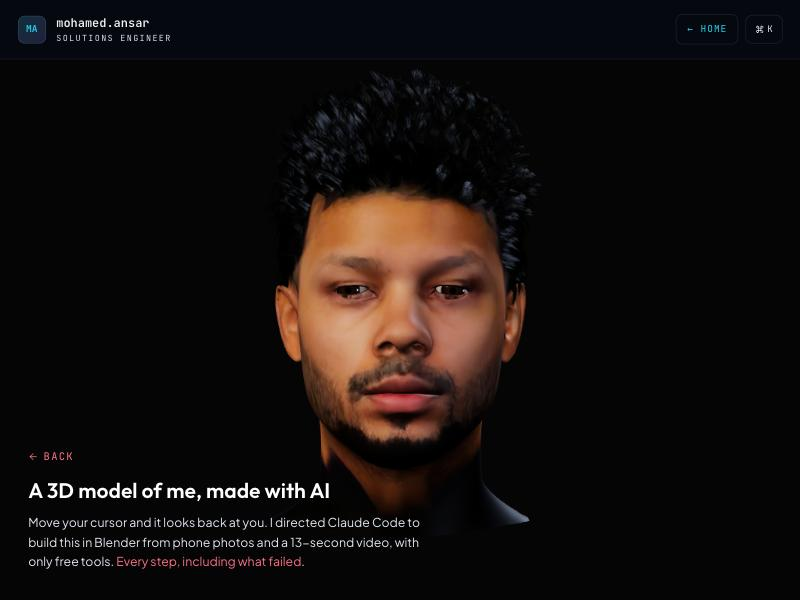
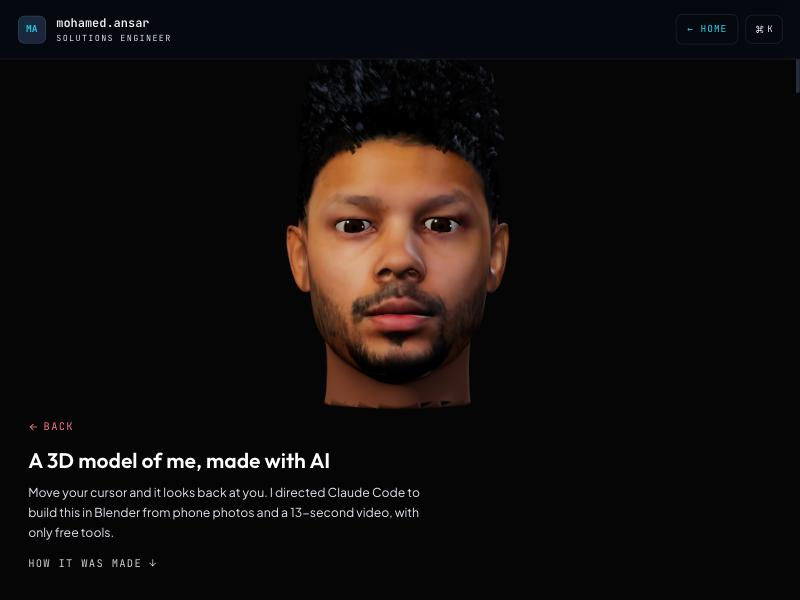
Pipeline diagram, flowcharts, tool screenshots gallery

diff --git a/README.md b/README.md
@@ -1,26 +1,63 @@
 # AI Digital Double
 
-I directed an AI coding agent (Claude Code) that drives Blender to build a 3D model of my own head. The inputs were phone photos, a 13-second video and free tools on a laptop. The result runs in a browser, and its eyes follow your cursor.
+**Can one person with a phone, a laptop and an AI agent build a 3D model of their own head that looks back at you? Yes. Here's every step, including the parts that failed.**
 
-**[See it live on my portfolio](https://kmsmohamedansar.github.io/#digital-double)**
+I directed an AI coding agent (Claude Code) to drive Blender and a handful of free tools. My inputs were phone photos, a 13-second video and my own review notes. The result runs in a browser, and its eyes follow your cursor.
+
+**[See it live on my portfolio →](https://kmsmohamedansar.github.io/#digital-double)**
 
 | Front | Three-quarter | Profile |
 |---|---|---|
 | ![](final/final_front.png) | ![](final/final_threequarter.png) | ![](final/final_profile.png) |
 
-This repo documents every attempt: what I tried, what the AI did, what each result looked like, and why it worked or failed.
-
 ## At a glance
 
 | | |
 |---|---|
-| Agent | Claude Code, driving Blender through the Blender MCP server |
-| 3D software | Blender 5.2, KeenTools FaceBuilder (add-on), Brush 0.3 (Gaussian splatting), three.js |
+| Agent | Claude Code, driving Blender live through the Blender MCP server |
+| 3D tools | Blender 5.2, KeenTools FaceBuilder, Apple Object Capture, Brush 0.3 (Gaussian splatting), three.js |
+| Code the agent wrote | Python inside Blender (mesh, hair, texture and shader work), 3 Swift tools, a chart generator, the web viewer |
 | Capture | iPhone 14 Pro Max: photos and a 13-second video |
-| Hardware | MacBook with Apple M4, 16 GB RAM |
+| Hardware | Laptop with Apple M4, 16 GB RAM |
 | Cost | $0 |
-| Time | About 3.5 hours of hands-on work across 9 approaches plus a review pass |
-| Output | A 6.9 MB GLB with separate eyeballs, in a web viewer where the eyes follow the cursor |
+| Time | About 6 hours across 12 stages, including 4 rounds of my review |
+| Output | An 8 MB GLB (head, separate eyeballs, hair cards) in a web viewer where the eyes follow the cursor |
+
+## How it works
+
+![Pipeline](charts/pipeline.svg)
+
+The loop that did the real work:
+
+```mermaid
+flowchart LR
+    A[I describe what's wrong<br/>in plain English] --> B[Claude Code plans<br/>and writes Python]
+    B --> C[Runs it live in Blender<br/>via MCP]
+    C --> D[Renders the result<br/>and looks at it]
+    D -->|not right yet| B
+    D -->|looks right| E[Shows me renders]
+    E -->|I spot a problem| A
+    E -->|approved| F[Bake, export GLB,<br/>update this repo]
+```
+
+What a single fix looks like, for example "there's hair in my ears":
+
+```mermaid
+sequenceDiagram
+    participant Me
+    participant Agent as Claude Code
+    participant B as Blender (MCP)
+    Me->>Agent: hair is in the ears and below them
+    Agent->>B: measure head width at each height
+    B-->>Agent: skull 57 mm, ears stick out to 63-71 mm
+    Agent->>B: trace each ear's outline from the mesh
+    Agent->>B: regrow 160k strands, reject any within 2.5 mm of an ear
+    Agent->>B: render both profiles
+    B-->>Agent: images
+    Agent->>Me: before/after renders
+```
+
+## Charts
 
 ![Timeline](charts/timeline.svg)
 
@@ -127,16 +164,39 @@ cd web && python3 -m http.server 8000
 Then open http://localhost:8000. The viewer loads `digital_double.glb` and three.js from a CDN.
 
 ## Screenshots: the tools in action
+
+### Blender, driven by the agent
 | | |
 |---|---|
-| ![](screenshots/01_blender_connected_default_scene.png) Blender connected to Claude through MCP | ![](screenshots/02_reference_photos_aligned.png) Reference photos aligned to scale |
-| ![](screenshots/10_facebuilder_8_views_and_cameras.png) FaceBuilder: 8 video views solved, cameras around the head | ![](screenshots/12_skin_shader_nodes.png) Skin shader nodes built by the agent |
-| ![](screenshots/03_particle_hair_viewport.png) Particle hair attempt | ![](screenshots/11_strand_hair_viewport.png) Strand hair (190k curves) |
-| ![](screenshots/04_video_scan_imported.png) Apple Object Capture scan imported | ![](screenshots/05_hair_volume_from_8_views.png) Hair volume carved from 8 views |
-| ![](screenshots/06_photo_scan_flat_mask.png) Failed capture: a flat mask | ![](screenshots/brush_training_viewer.png) Brush training the splat on the M4 GPU |
-| ![](screenshots/07_splat_as_points_in_blender.png) Splat as points in Blender (too crude) | ![](screenshots/08_splat_web_viewer_front.jpg) Splat in a web viewer: best likeness |
-| ![](screenshots/13_web_viewer_glb.jpg) Final GLB in the web viewer | ![](screenshots/16_portfolio_page.jpg) Live on the portfolio |
-| ![](screenshots/13_web_viewer_glb.jpg) Looking straight ahead | ![](screenshots/15_eyes_following_cursor_left.jpg) Following the cursor to the left |
+| ![](screenshots/01_blender_connected_default_scene.png) Blender connected to Claude through MCP: the starting scene | ![](screenshots/02_reference_photos_aligned.png) Reference photos aligned to real-world scale |
+| ![](screenshots/18_head_mesh_topology.png) The head mesh: 18k vertices of clean, animatable topology | ![](screenshots/21_face_texture_uv.png) The face texture and its UV layout, with every repair painted in by code |
+| ![](screenshots/20_eye_shader_nodes.png) The eye shader: a procedural iris, pupil and wet coat, built node by node | ![](screenshots/12_skin_shader_nodes.png) The skin shader: tone correction, pores, subsurface scattering |
+| ![](screenshots/19_ear_outline_traced.png) The ear outline traced from the mesh (red), used to keep hair out of the ears | ![](screenshots/17_blender_final_hair_selected.png) The final hair: 160k strands as Blender hair curves |
+
+### KeenTools FaceBuilder
+| | |
+|---|---|
+| ![](screenshots/10_facebuilder_8_views_and_cameras.png) 8 video frames solved, with a camera placed for each view | ![](stages/04-facebuilder-video/input_video_frames.png) The video frames it was fitted to |
+
+### Photogrammetry and Gaussian splats
+| | |
+|---|---|
+| ![](screenshots/04_video_scan_imported.png) Apple Object Capture scan from 128 video frames | ![](screenshots/05_hair_volume_from_8_views.png) Hair volume carved from 8 calibrated views |
+| ![](screenshots/06_photo_scan_flat_mask.png) A failed capture: turning my head instead of the camera gave a flat mask | ![](screenshots/brush_training_viewer.png) Brush training a Gaussian splat on the M4 GPU |
+| ![](screenshots/07_splat_as_points_in_blender.png) The splat as raw points in Blender | ![](screenshots/08_splat_web_viewer_front.jpg) The splat in a web viewer: the best likeness, but it can't be animated |
+
+### Hair, from bad to better
+| | |
+|---|---|
+| ![](screenshots/03_particle_hair_viewport.png) Particle hair: looked like a knitted cap | ![](screenshots/11_strand_hair_viewport.png) First strand hair: rope-like curls |
+| ![](stages/12-head-only-hair/temple_closeL.png) Temples before: comb-teeth strands | ![](stages/12-head-only-hair/temple3_L.png) Temples after: short, flat, soft hairline |
+
+### In the browser
+| | |
+|---|---|
+| ![](screenshots/13_web_viewer_glb.jpg) The final GLB in a three.js viewer, looking straight ahead | ![](screenshots/15_eyes_following_cursor_left.jpg) Head and eyes following the cursor |
+| ![](screenshots/16_portfolio_page.jpg) On the portfolio | ![](screenshots/22_portfolio_how_it_was_made.jpg) The "How it was made" section on the portfolio |
+| ![](screenshots/23_portfolio_stage_cards.jpg) Stage cards on the portfolio | ![](screenshots/09_splat_web_viewer_orbit.jpg) The splat viewer, orbited |
 
 ## Repo layout
 ```
